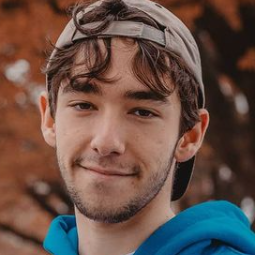
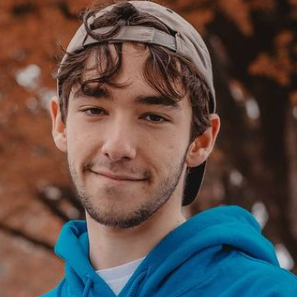
Add staff photo

diff --git a/templates/about/index.html b/templates/about/index.html
@@ -83,8 +83,10 @@
         </div>
 
         <div class="mb-2">
-            <div class="bg-dark rounded-circle me-3" style="width: 75px; height: 75px; float: left;"></div>
-
+            <img 
+                class="bg-dark rounded-circle me-3" 
+                style="width: 75px; height: 75px; float: left;" 
+                src="{% static 'assets/staff/anthonyradcliffe.png' %}" />
             <div>
                 <b>Anthony Radcliffe</b>
                 <p>
